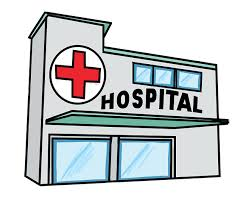
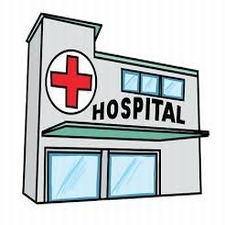
Change in images
Made changes to images and added tracking site

diff --git a/WIP_Site/index.html b/WIP_Site/index.html
@@ -43,51 +43,54 @@
 </head>
 <body>
 <!--Header-->  
+<!--nav class="navbar navbar-default navbar-fixed-top" role="navigation"-->
 <div class="header">   	
-	<div class="container">	
+	<div class="container ">	
 		<div class="logo">
-			<a href="#"><img src="images/logo.png" class="img-responsive" alt="Omniware"/></a>
+			<a href="#"><img src="images/Logo-Big.png" class="img-responsive" alt="Omniware"/></a>
 			<div class="clearfix"> </div>
 		</div>
-			<div class="header-right">
-						 <div class="navigation">
-						 			<span class="menu"> </span>
-								<ul>
-									<li><a class="scroll" href="#about" title="ABOUT US"><span>About Us</span></a></li>
-									<li><a class="scroll" href="#offerings" title="OFFERINGS"><span>Offerings</span></a></li>
-									<li><a class="scroll" href="#camps" title="CAMPS"><span>Customers</span></a></li>
-									<!--li><a class="scroll" href="#testimonials" title="TESTIMONIALS"><span>Testimonials</span></a></li-->
-									<li><a class="scroll" href="#contact" title="CONTACT US"><span>Contact Us</span></a></li>
-									
-								</ul>
+		<div class="header-right">
+					 <div class="navigation">
+					 			<span class="menu"> </span>
+							<ul>
+								<li><a class="scroll" href="#about" title="ABOUT US"><span>About Us</span></a></li>
+								<li><a class="scroll" href="#offerings" title="OFFERINGS"><span>Offerings</span></a></li>
+								<li><a class="scroll" href="#camps" title="CAMPS"><span>Customers</span></a></li>
+								<!--li><a class="scroll" href="#testimonials" title="TESTIMONIALS"><span>Testimonials</span></a></li-->
+								<li><a class="scroll" href="#contact" title="CONTACT US"><span>Contact Us</span></a></li>
 								
-						</div>
-						<!--script-nav -->	
-			<script>
-					$("span.menu").click(function(){
-						$(".navigation ul").slideToggle("slow" , function(){
-						});
+							</ul>
+							
+					</div>
+					<!--script-nav -->	
+		<script>
+				$("span.menu").click(function(){
+					$(".navigation ul").slideToggle("slow" , function(){
 					});
-					</script>
-					<script type="text/javascript">
-							jQuery(document).ready(function($) {
-								$(".scroll").click(function(event){		
-									event.preventDefault();
-									$('html,body').animate({scrollTop:$(this.hash).offset().top},1000);
-								});
+				});
+				</script>
+				<script type="text/javascript">
+						jQuery(document).ready(function($) {
+							$(".scroll").click(function(event){		
+								event.preventDefault();
+								$('html,body').animate({scrollTop:$(this.hash).offset().top},1000);
 							});
-							</script>
-						<div class="clearfix"> </div>
-					<!-- /script-nav -->
-					<!--div class="top-icons">
-					   <span class="icon1"> </span>
-					   <span class="icon2"> </span>
-					   <span class="icon3"> </span>
-				    </div-->	
-				<div class="clearfix"> </div>
-			</div>
+						});
+						</script>
+					<div class="clearfix"> </div>
+				<!-- /script-nav -->
+				<!--div class="top-icons">
+				   <span class="icon1"> </span>
+				   <span class="icon2"> </span>
+				   <span class="icon3"> </span>
+			    </div-->	
+			<div class="clearfix"> </div>
+		</div>
 	</div>
+
 </div>			
+<!--/nav-->
 <!--/Header Ends Here-->
 <!--Header Banner Start Here--> 
 		   <div class="header-banner">
@@ -145,8 +148,8 @@
 				</div-->
 				<div class="col-md-6 services wow bounceIn" data-wow-delay= "0.4s">
 				<span class="icon3"> </span>
-				<h2>Innovative App</h2>
-				<p>End customers can access their reciepts securely through our apps.</p>
+				<h2>No Lost Reciepts</h2>
+				<p>All reciepts are stored online and end customers can access their reciepts securely through our apps.</p>
 				</div>
 				<div class="clearfix"> </div>
 		 </div>
@@ -161,39 +164,38 @@
 			</div>
 		 <div class="bootstrap-grids">			
          <div class="col-md-4 camps">
-				<a href="#"><img class="img-responsive" src="images/01.jpg" alt=""/></a>
+				<img class="img-responsive" src="images/01.jpg" alt="Retail Store"/>
 					<ul class="product_title titlelast">
-					  	 <li class="s_head"><h3>Retail Stores</h3></li>
-					  		  <li> 
-					  		   </li>
+					  	 <li class="s_head"><h3>Retail <br>Stores</h3></li>					  		 
 					 </ul>
 		<div class="clearfix"> </div>
+		
 		<div class="Proin">
 			<p>From the small local store to big retail chains, all can integrate easily with our RMS solution.</p>
 			<a class="button wow swing scroll" data-wow-delay= "0.4s" href="#contact">INTEGRATE</a>
 		</div>
     </div>
 	<div class="col-md-4 camps">
-				<img class="img-responsive" src="images/02.jpg" alt="" />
+				<img class="img-responsive" src="images/02.jpg" alt="Hospital" />
 				<ul class="product_title titlelast">
 					<li class="s_head"><h3>Hospitals & Medical Labs</h3>
 										</li>					 
 				</ul>
-				<div class="clearfix"> </div>
-			<div class="Proin">
+	<div class="clearfix"> </div>
+		<div class="Proin">
 				<p>Using our web API, Medical Records can be sent to our Online Repository and retrieved when required. </p>
 					<a class="button wow swing scroll" data-wow-delay= "0.4s" href="#contact">INTEGRATE</a>
-			</div>
+		</div>
 	</div>
 	<div class="col-md-4 camps">
-				<img class="img-responsive" src="images/03.png" alt=""/>
+				<img class="img-responsive" src="images/03.png" alt="Bank"/>
 						<ul class="product_title titlelast">
 					  		<li class="s_head"><h3>Financial Companies</h3>
 					  		</li>  
 					  </ul>
 					  <div class="clearfix"> </div>
 		<div class="Proin">
-						<p>Any digital records can be sent<br> and retrieved online.</p>
+						<p>Any digital records can be sent <br> and retrieved securely.</p>
 							<a class="button wow swing scroll" data-wow-delay="0.4s" href="#contact">INTEGRATE</a>
 		</div>
 	</div>
@@ -283,5 +285,16 @@
 });
 </script>
 <a href="#to-top" id="toTop" style="display: block;"><span id="toTopHover" style="opacity: 1;"> </span></a>
+<script src="https://script.opentracker.net/?site=omniware.in"></script>
+<script>
+  (function(i,s,o,g,r,a,m){i['GoogleAnalyticsObject']=r;i[r]=i[r]||function(){
+  (i[r].q=i[r].q||[]).push(arguments)},i[r].l=1*new Date();a=s.createElement(o),
+  m=s.getElementsByTagName(o)[0];a.async=1;a.src=g;m.parentNode.insertBefore(a,m)
+  })(window,document,'script','//www.google-analytics.com/analytics.js','ga');
+
+  ga('create', 'UA-57326057-1', 'auto');
+  ga('send', 'pageview');
+
+</script>
 </body>
 </html>

diff --git a/WIP_Site/css/style.css b/WIP_Site/css/style.css
@@ -28,10 +28,11 @@ h1,h2,h3,h4,h5,h6,p,span{
 	margin-top: -0.4em;
 }
 .header {
-	padding: 4em 0em 2em;
+	padding: 1em 0em 1em;
 }
 .header-right{
 	float:right;
+	padding: 24px 0em 1em;
 }
 .navigation{
 	float:left;
@@ -389,9 +390,9 @@ a.dones:hover{
 	font-family: 'Lato', sans-serif;
 	margin: 1em 0em;
 	font-weight: 300;
-	font-size: 15px;
+	font-size: 16px;
 	margin-left: 0em;
-	color: #738C96;
+	color: #485456;
 	width: 102%;
 	line-height: 22px;
 }
@@ -539,6 +540,7 @@ overflow: hidden;
 .get{
 	background: url(../images/last-banner.jpg) no-repeat 0px 0px;
 	background-size: cover;
+background-attachment: fixed;
 }
 .recent {
 	margin: 2em 0em 3em;
@@ -767,8 +769,8 @@ a:hover {
 	color:#15A4FA;
 }
 .footer h4{
-	font-family: 'Lato', sans-serif;
-	color: #738C96;
+	font-family: 'Open Sans','Lato', sans-serif;
+	color: #485456;
 }
 .Rights{
 	display: inline-block;

diff --git a/Coming_Soon_Site/index.html b/Coming_Soon_Site/index.html
@@ -178,6 +178,17 @@
         <script src="assets/js/jquery.backstretch.min.js"></script>
         <script src="assets/js/jquery.countdown.min.js"></script>
         <script src="assets/js/main-scripts.js"></script>
+		<script src="https://script.opentracker.net/?site=omniware.in"></script>
+		<script>
+  (function(i,s,o,g,r,a,m){i['GoogleAnalyticsObject']=r;i[r]=i[r]||function(){
+  (i[r].q=i[r].q||[]).push(arguments)},i[r].l=1*new Date();a=s.createElement(o),
+  m=s.getElementsByTagName(o)[0];a.async=1;a.src=g;m.parentNode.insertBefore(a,m)
+  })(window,document,'script','//www.google-analytics.com/analytics.js','ga');
+
+  ga('create', 'UA-57326057-1', 'auto');
+  ga('send', 'pageview');
+
+</script>
 <script type="text/javascript">
 document.getElementById("h1").style.color = "green";
 </script>
